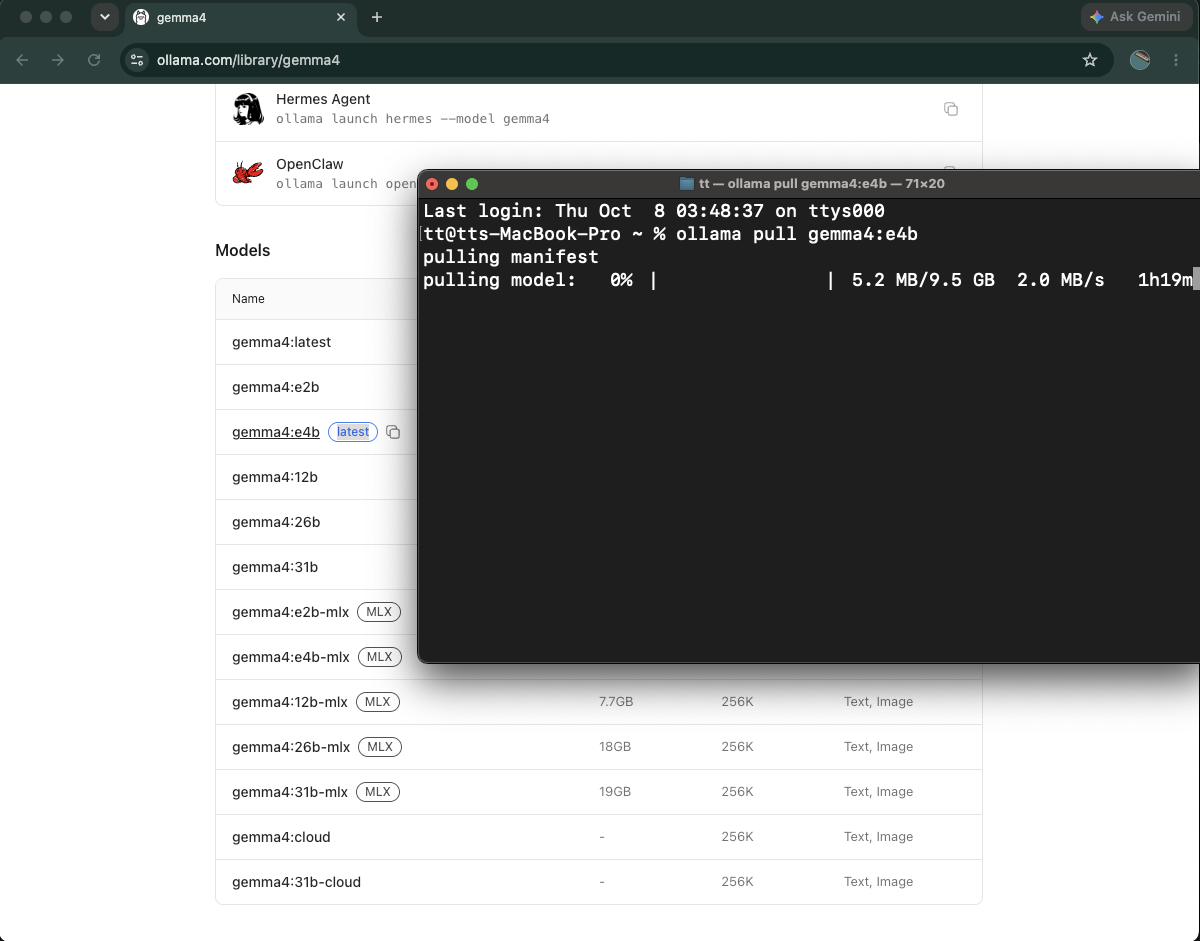
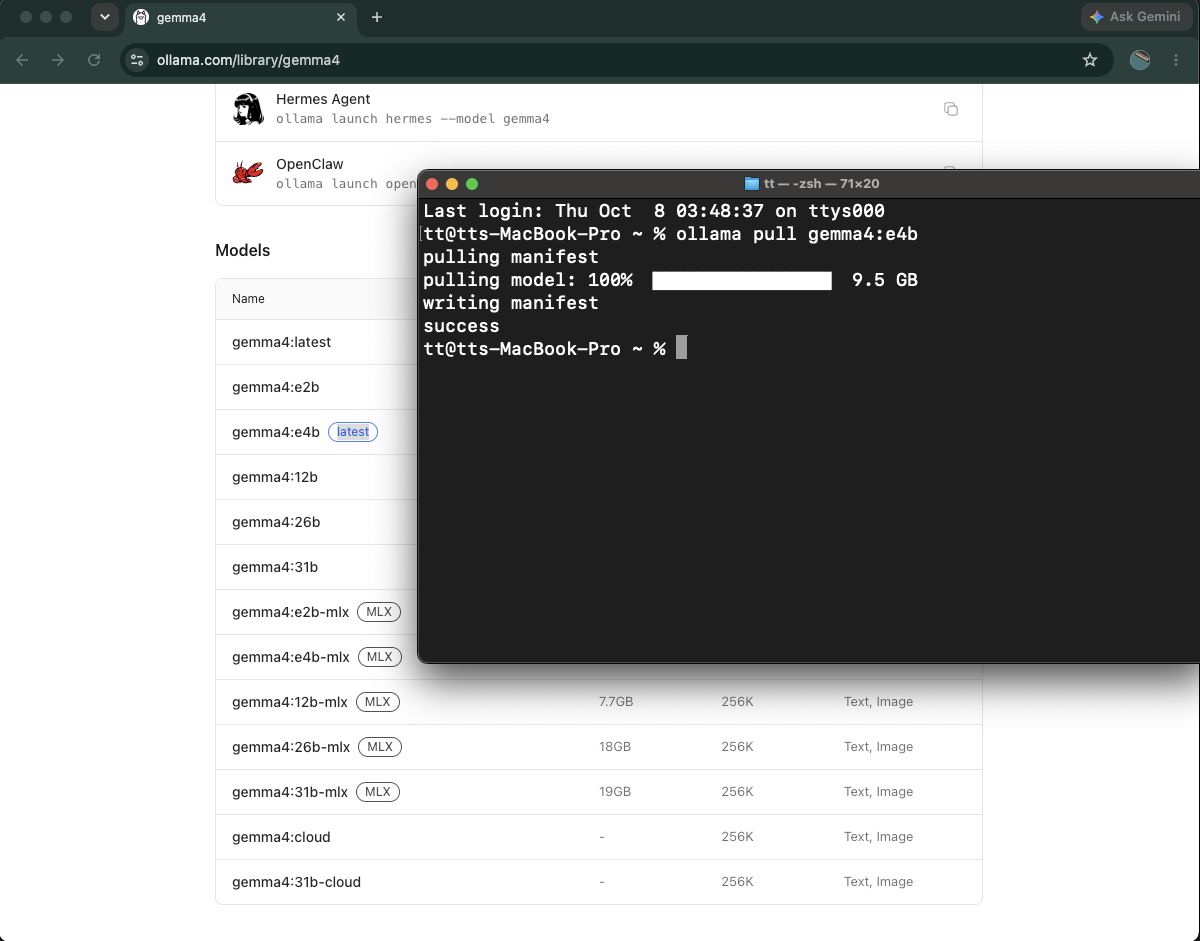
main

diff --git a/playlist/agenticAITipsWorkflows/01/side-bar-links-pages/01-03/01-03.html b/playlist/agenticAITipsWorkflows/01/side-bar-links-pages/01-03/01-03.html
@@ -5,7 +5,7 @@
     </header>
     <div class="main-container">
         <div class="steps-container">
-            <div class="steps-float-container">
+            <div class="step-floats-container">
                 <!-- 01 -->
                 <div class="step-float" data-video="https://www.youtube.com/watch?v=4KXLW9Y1r4c&list=PLWhMzDKA7vJ5VxoVa32JcCxYl8sHKP4Ds&index=2"
                     data-timestamp="361">
@@ -13,7 +13,7 @@
                     <h5>Download model</h5>
                     <div class="imgs-container">
                         <div class="step-img">
-                            <img loading="lazy" src="side-bar-links-pages/01-02/media/01-02-3b.png" alt="">
+                            <img loading="lazy" src="side-bar-links-pages/01-03/media/01-03-1.png" alt="">
                         </div>
                     </div>
                     <div class="step-txt ">
@@ -35,13 +35,13 @@ ollama pull gemma4:e4b</code>
                     </div>
                     
                 </div>
-                <!-- 01 -->
+                <!-- 02 -->
                 <div class="step-float" data-video="https://www.youtube.com/watch?v=4KXLW9Y1r4c&list=PLWhMzDKA7vJ5VxoVa32JcCxYl8sHKP4Ds&index=2"
-                    data-timestamp="361">
+                    data-timestamp="375">
                     <h4>1 ollama list</h4>
                     <div class="imgs-container">
                         <div class="step-img">
-                            <img loading="lazy" src="side-bar-links-pages/01-02/media/01-02-3b.png" alt="">
+                            <img loading="lazy" src="side-bar-links-pages/01-03/media/01-03-2.png" alt="">
                         </div>
                     </div>
                     <div class="step-txt ">
